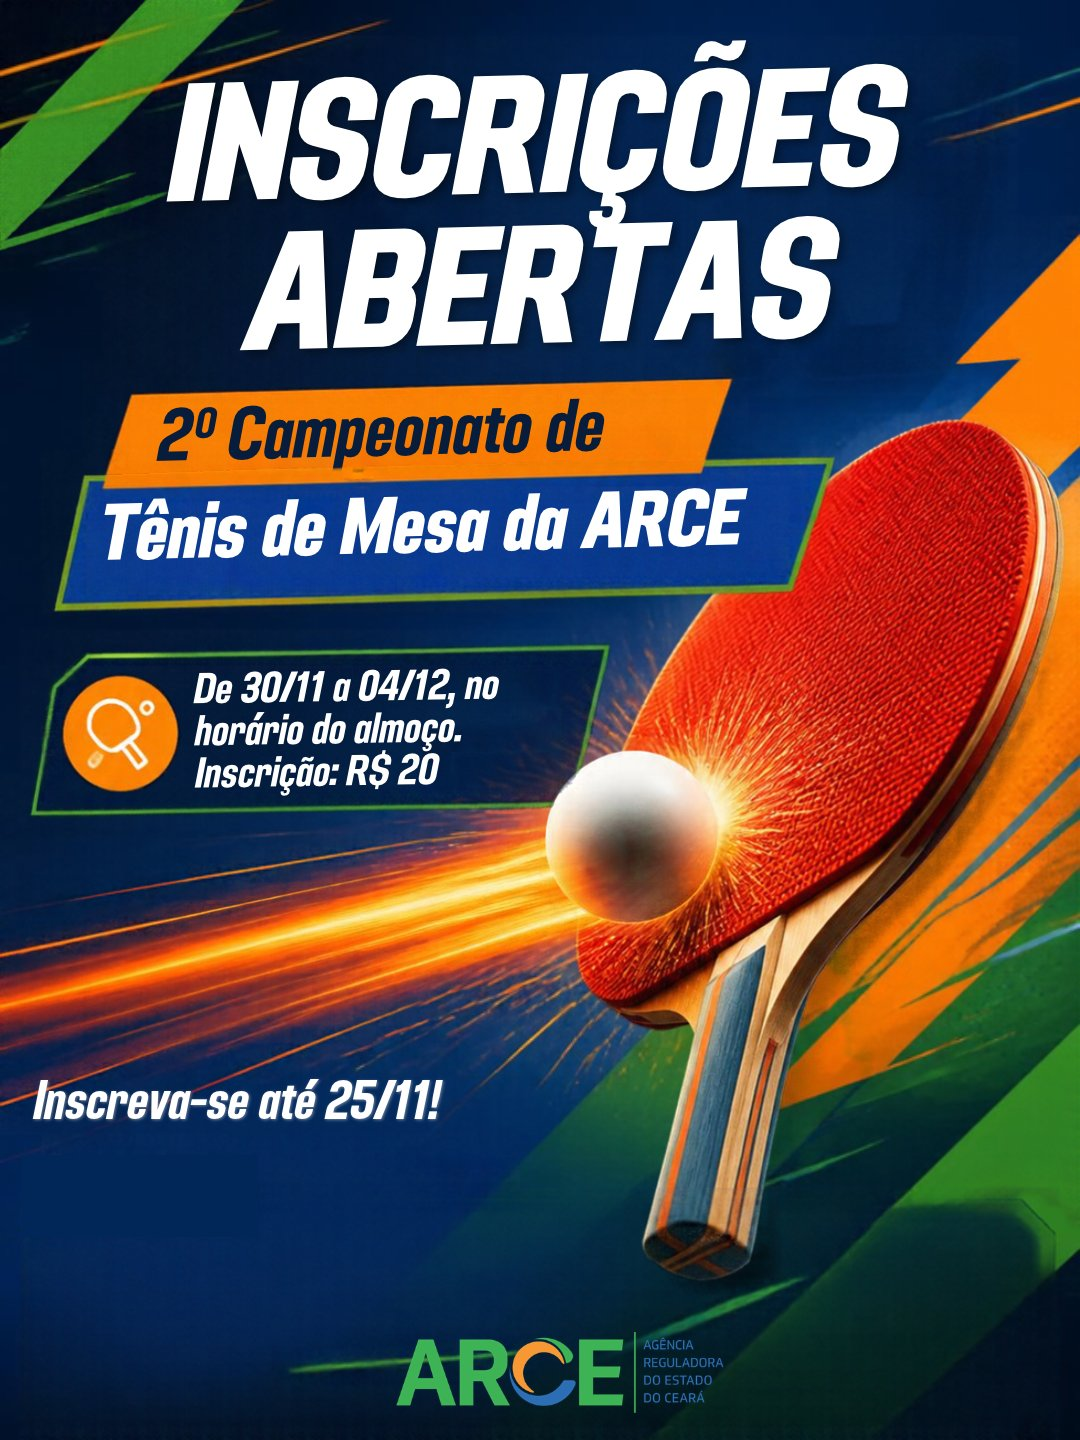
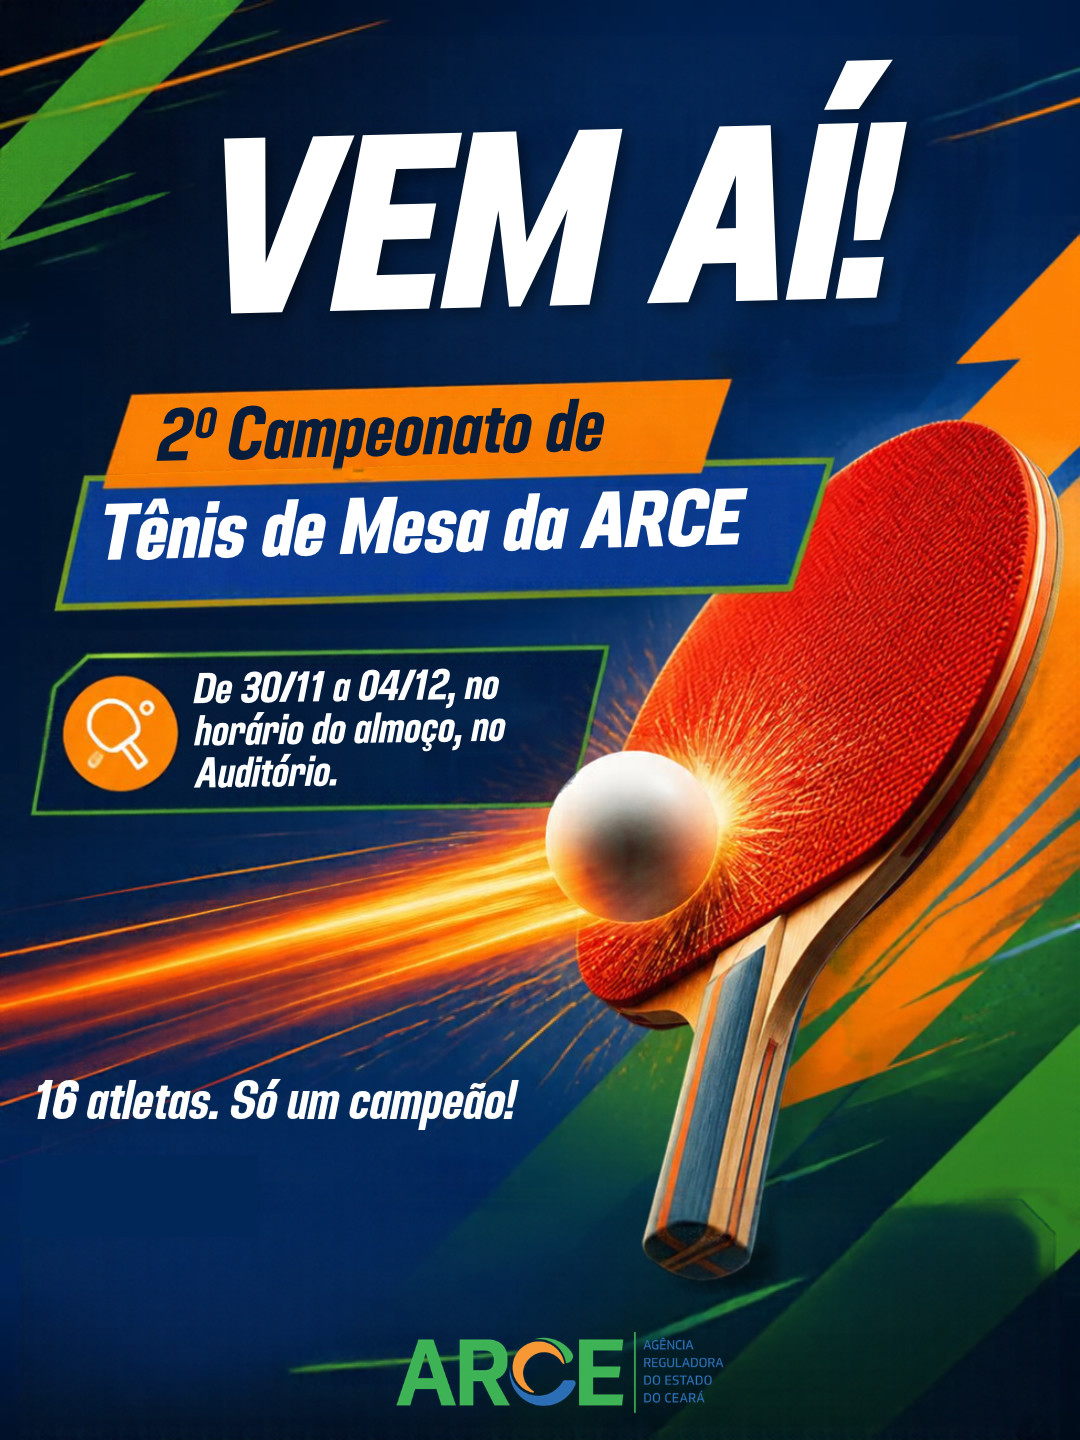
Card do site: Vem ai! no lugar de Inscricoes abertas

diff --git a/index.html b/index.html
@@ -386,7 +386,7 @@
         <a class="btn ghost" href="#regulamento">Ver regulamento</a>
       </div>
     </div>
-    <figure><img src="card.jpg" alt="Card de inscrições abertas do 2º Campeonato de Tênis de Mesa da ARCE" width="1080" height="1440"></figure>
+    <figure><img src="card.jpg?v=2" alt="Card Vem aí! do 2º Campeonato de Tênis de Mesa da ARCE: de 30/11 a 04/12, no Auditório, 16 atletas" width="1080" height="1440"></figure>
   </div>
 </header>
 
